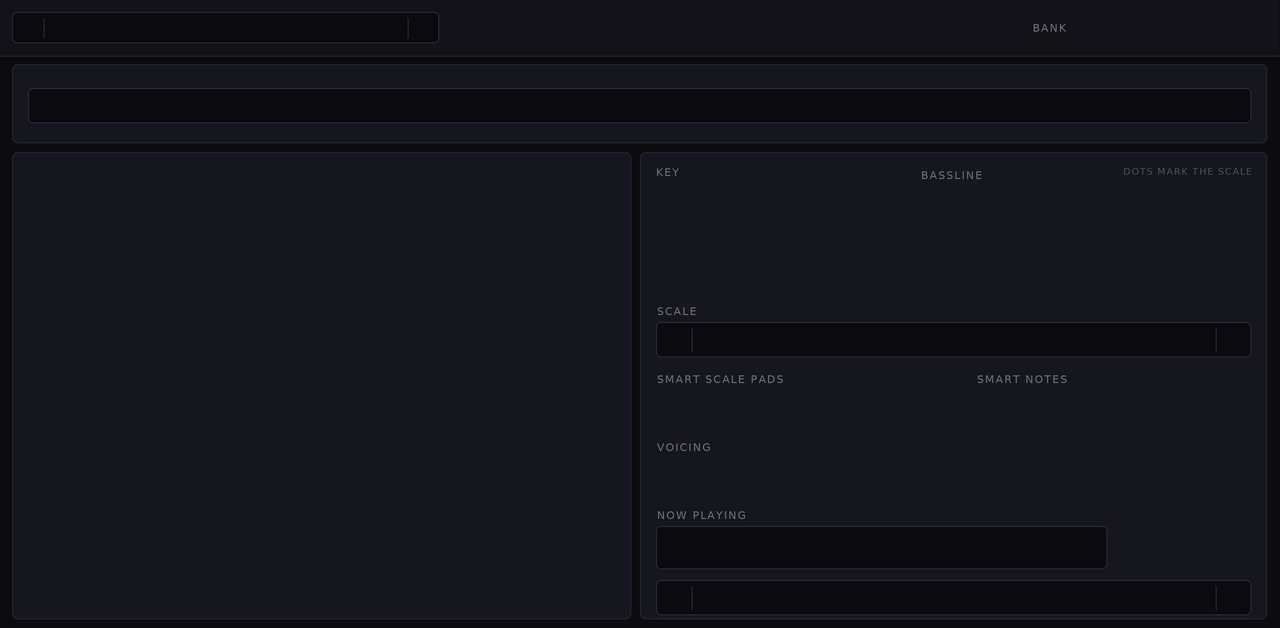
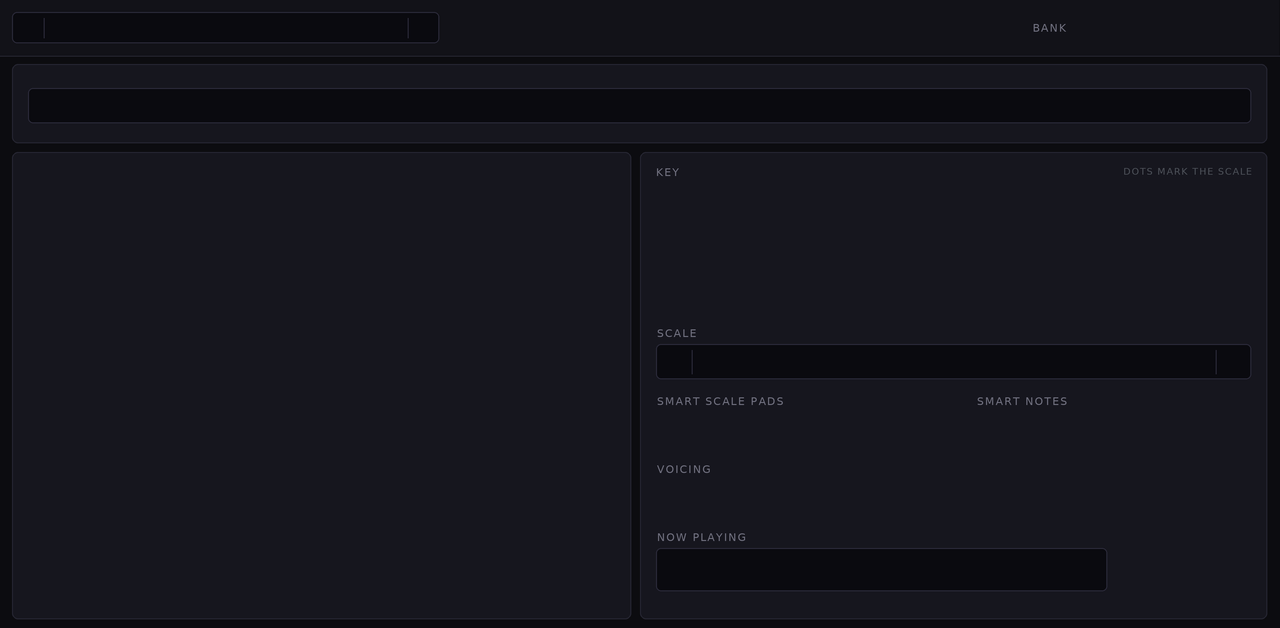
Skin: keyboard across the Play page, Bassline under it
The keyboard now spans the right panel (seven white keys of 85 px, black keys
50 x 60 px), with the Bassline row directly beneath it. The rows below move
down to make room. The bottom Preset bar is removed, since the preset control
at the top left does the same job.

Claude-Session: https://claude.ai/code/session_01XRqyjua6wzinB9NqNDDbhg

diff --git a/tools/make_skin.py b/tools/make_skin.py
@@ -485,15 +485,14 @@ class Skin:
         bg.panel((640, 152, 1268, 620))
         bg.caption(656, 166, "Key")
         bg.a.text(1252, 166, "DOTS MARK THE SCALE", 9.5, "#4d5159", "Medium", anchor="ra", tracking=1.0)
-        self.keyboard(c, "Key", 656, 186, 56, 100, 34, 60, dots=True)
-        self.segments(c, bg, "bassl", "Bassline", ["Off", "Root", "5th", "Octave", "Walk"], 920, 186, 66, 36, caption="Bassline")
-        self.stepper(c, bg, "Scale", "Scale prev", "Scale next", 656, 322, 596, "Scale")
-        self.segments(c, bg, "smart", "Smart pads", ["Off", "Pads 9-16", "Follow"], 656, 390, 104, caption="Smart Scale pads")
-        self.segments(c, bg, "smartn", "Smart notes", ["Chord", "Scale", "Bass"], 976, 390, 92, caption="Smart notes")
-        self.segments(c, bg, "voicing1", "Voicing", voicings, 656, 458, 119, caption="Voicing")
-        self.readout(c, bg, "Now playing", 656, 526, 452, 44, size=17, colour=ACCENT, caption="Now playing")
-        self.action_button(c, bg, "direct", "Direct", "Direct", 1120, 526, w=132, h=44)  # on: silent built-in sound, chords to Velvet Chords Out
-        self.stepper(c, bg, "Preset", "Preset prev", "Preset next", 656, 580, 596)
+        self.keyboard(c, "Key", 656, 186, 85, 100, 50, 60, dots=True)   # seven white keys across the panel
+        self.segments(c, bg, "bassl", "Bassline", ["Off", "Root", "5th", "Octave", "Walk"], 656, 294, 119, 28)
+        self.stepper(c, bg, "Scale", "Scale prev", "Scale next", 656, 344, 596, "Scale")
+        self.segments(c, bg, "smart", "Smart pads", ["Off", "Pads 9-16", "Follow"], 656, 412, 104, caption="Smart Scale pads")
+        self.segments(c, bg, "smartn", "Smart notes", ["Chord", "Scale", "Bass"], 976, 412, 92, caption="Smart notes")
+        self.segments(c, bg, "voicing1", "Voicing", voicings, 656, 480, 119, caption="Voicing")
+        self.readout(c, bg, "Now playing", 656, 548, 452, 44, size=17, colour=ACCENT, caption="Now playing")
+        self.action_button(c, bg, "direct", "Direct", "Direct", 1120, 548, w=132, h=44)  # on: silent built-in sound, chords to Velvet Chords Out
         self.page("Play", 0, c, "vc_bg_play.png", bg)
 
         # ---------- Perform
